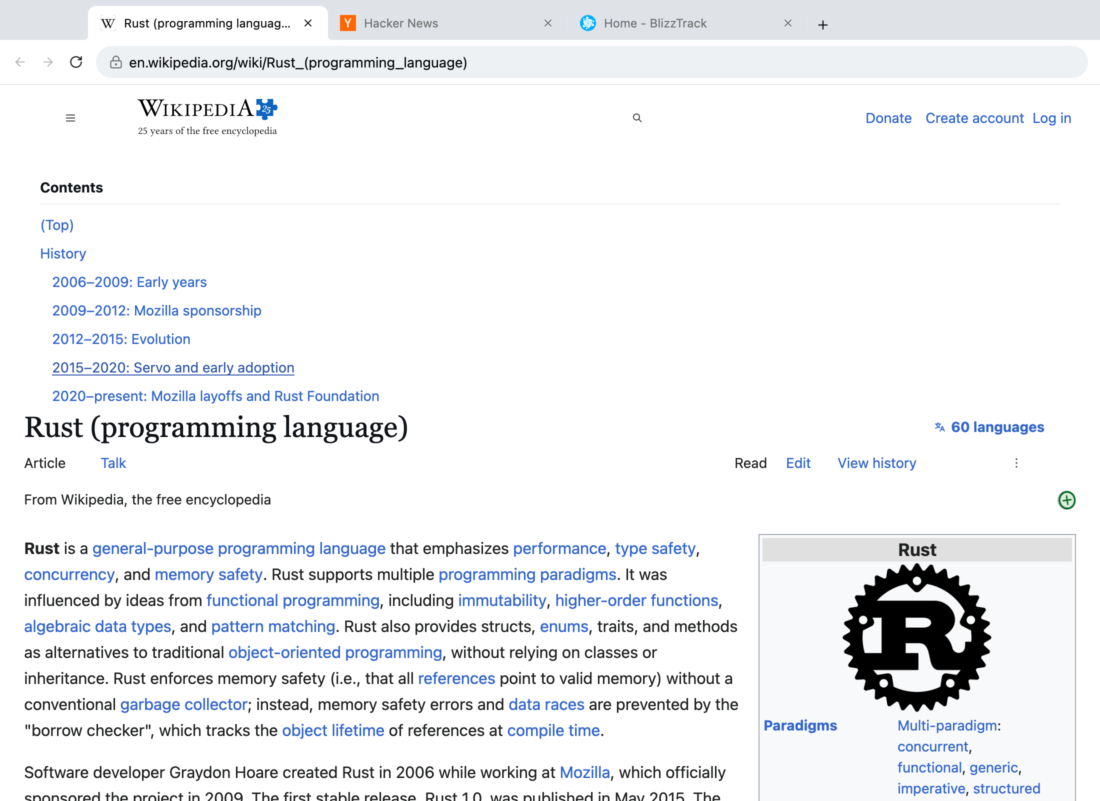
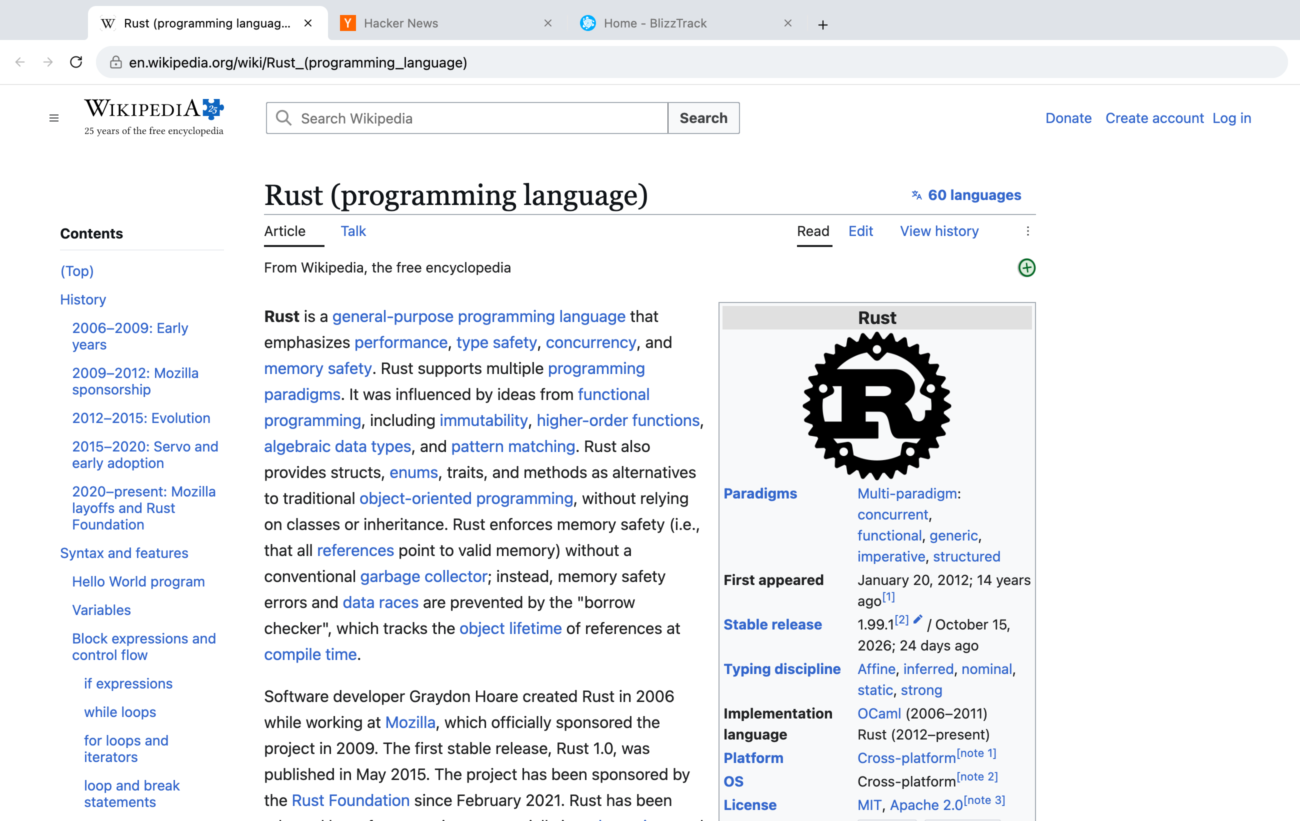
README rewrite, fresh screenshots, PLAN update
The README describes Feather as it is now: tabs, omnibox, forms, the
source view, hover patching, grid slicing; new screenshots (Wikipedia
with tabs, blizztrack in dark chrome, un-minified jQuery, the omnibox,
Hacker News dark).

diff --git a/README.md b/README.md
@@ -1,57 +1,45 @@
 # Feather 🪶
 
-**A web browser where the web page is not a web page.** Named Feather because it's so light it doesn't have a web engine.
+**A web browser with no web engine.** It's called Feather because it's so light it doesn't even have JavaScript.
 
-Normal browsers parse HTML into a DOM, run it through a rendering engine, and paint the result into a rectangle. This one parses HTML, runs its CSS through a cascade we wrote ourselves, and then turns the whole page into **native [GPUI](https://www.gpui.rs) UI elements**. GPUI is the GPU UI framework behind the Zed editor. Every paragraph you see is a GPUI element. Every `<div>` is a GPUI `div()`. The DOM is a slotmap the renderer reads once and then mostly ignores.
+Feather parses HTML, runs the CSS through a cascade it wrote itself, and turns the page into **native [GPUI](https://www.gpui.rs) elements**, the same UI framework the Zed editor is built with. There's no WebView, no Blink, no WebKit, no Servo in a trench coat. Every paragraph is a GPUI element. Every `<div>` is a GPUI `div()`. The text fields are code-editor text fields. It's Rust from the HTML tokenizer to the tab strip.
 
-It is cursed. It also kind of works.
+It is deeply cursed, and it renders Wikipedia.
 
-![Wikipedia, rendered as native GPUI elements](docs/wikipedia.png)
+![Wikipedia in Feather, with tabs](docs/wikipedia.png)
 
-![Hacker News](docs/hacker-news.png)
+## The cursed parts
 
-## Just how cursed is it
+- **Blocks are flexboxes.** CSS has "block flow". We don't. Every block is a GPUI `flex_col()`, and margin collapsing is arithmetic we do before Taffy ever sees it.
+- **Long pages are virtualized by tearing them apart.** Any container that can be sliced horizontally without anyone noticing is dissolved into rows of a GPUI `list()`, and each row re-creates the containers around it. Wikipedia's article is ~440 independently rendered rows, which is why scrolling a huge page costs about a millisecond a frame.
+- **CSS grids are sliced like bread.** A grid of 100 cards becomes 50 two-card grids stacked on top of each other, one list row each. They agree on column widths because they have the same template and the same width. GPUI only knows "N equal columns", so `grid-template-areas` layouts are placed by hand and rebuilt from flex rows. When one column holds the whole article (Wikipedia), it stays splittable, and the sidebar hangs off the article's first row as an absolutely positioned box.
+- **Tables are flex rows that agree on column widths.** Column widths are estimated from character counts before layout, then every cell in a column gets the same flex basis, so the rows independently land on the same grid.
+- **Inline layout is hand-rolled.** GPUI's text element does one font size per block. The web puts superscripts mid-sentence. So [our own element](crates/render/src/inline.rs) shapes text with GPUI's shaper, breaks lines itself, builds CSS line boxes from ascent, descent and line-height, and paints each run at its own baseline.
+- **Inline-blocks are laid out with last frame's homework.** GPUI's layout engine can't be re-entered from text measurement, so an inline-block containing real blocks is laid out as an absolutely positioned child, line breaking uses the size it had *last frame*, and if that was wrong it asks for another frame. It settles in one.
+- **Hover doesn't restyle the page.** When `:hover` changes, only the elements entering or leaving it are restyled, and if only paint changed (colors, backgrounds, radii, transforms) the new values are patched into the existing layout. About half a millisecond, no re-layout.
+- **Links load before you click them.** Rest the pointer on a link for 60ms and Feather fetches, parses, styles and lays out the whole page in the background. By the time you click, it's done.
+- **Form fields are code editors.** Each `<input>` is a box drawn from the page's CSS with a gpui-kit text editor sitting inside it. Buttons don't have click handlers: their content links to `feather-activate:<node id>`, a URL scheme that exists only so the inline layout's link hit-testing can press buttons.
+- **View source is a full code editor.** CSS, JavaScript and JSON responses, and `view-source:` pages, open in a highlighted editor with line numbers and folding. Minified code is un-minified first, by hand-written token-level pretty-printers for all four languages.
+- **Mask icons are SVGs smuggled through the asset system**, inline `<svg>` is serialized back into a string and "downloaded" from a `data:` URL, and the screenshot tool renders frames into an offscreen texture instead of taking screenshots.
 
-- **Blocks are flexboxes.** CSS has a whole layout mode called "block flow". We don't have it. Every block is a GPUI `flex_col()`, and we fake margin collapsing by doing the arithmetic ourselves before Taffy ever sees it. Mostly nobody can tell.
-- **Floats are a lie.** Real floats let text wrap *around* the floated box. Ours take the float and the next few paragraphs (until a heading) and put them in a two-column flex row. Wikipedia's infobox doesn't seem to mind.
-- **Tables are flex rows that agree on column widths.** We estimate every column's minimum and maximum content width *before layout*, from character counts. Then we hand every cell in a column the same flex basis and a grow factor proportional to its content, so all the rows independently land on the same column widths. It's table layout with no table layout.
-- **Inline layout is hand-rolled.** GPUI's text element does one font size per block of text. The web puts superscripts in the middle of sentences. So there's [our own GPUI element](crates/render/src/inline.rs) that measures every word with GPUI's text shaper, breaks lines itself, builds CSS line boxes from ascent, descent and line-height, and paints each run at its own baseline.
-- **Inline-blocks are laid out with last frame's homework.** A button in a sentence is an "atomic object" laid out by a nested copy of the inline engine. An inline-block with real blocks inside is a genuine GPUI subtree, but GPUI's layout engine can't be re-entered from inside text measurement, so it's laid out as an absolutely positioned child, the line breaking uses the size it had *last frame*, and if that was wrong we just ask for another frame. It settles in one. Then the subtree gets shoved into its slot in the line.
-- **Inline margins are space characters.** `<b style="margin-right: 5px">` gets an en space and a thin space appended. They're breakable, they survive whitespace collapsing, and they're about the right width.
-- **Long pages are virtualized by tearing them apart.** Any container that could be sliced horizontally without anyone noticing (no top/bottom borders, no fixed height…) gets dissolved into top-level rows of a GPUI `list()`, and each row re-creates the containers around it as "wrappers". Wikipedia's article becomes roughly 480 independently rendered rows.
-- **`position: absolute` is "absolute to your parent, probably".** CSS says the nearest positioned ancestor; Taffy only knows the parent. Usually the same box. Absolute boxes anchored to the page itself stay hidden, which mostly hides "skip to content" links and modals, which is honestly an improvement.
-- **No JavaScript.** Wikipedia gets its no-JS layout. We report `(scripting: none)` to media queries and render `<noscript>` content, like a browser from 2004 that happens to support `oklch()`.
-- **Mask icons are SVGs served through the app's asset system.** CSS `mask-image` icons are fetched, registered as fake app assets, and drawn with GPUI's `svg()` element tinted with the box's color, which is what a mask icon is anyway.
-- **Inline `<svg>` is serialized back into a string.** We parse the SVG into our tree, then write it back out as markup (with `currentColor` swapped for the actual color), percent-encode it into a `data:` URL, and "download" it through the image pipeline. Icons work.
-- **Links load before you click them.** Rest the pointer on a link for 60ms and Feather fetches, parses, styles and lays out the whole page in the background. By the time you click, it's done. This is the closest thing it has to speculative execution.
-- **Grids are sliced like bread.** A CSS grid with a hundred cards becomes fifty two-card grids stacked on top of each other, each one its own list row. They agree on column widths because they all have the same template and the same width. Nobody can tell.
-- **Text shaping is shared across the whole browser.** Shaped text is cached by content, not by element, so Wikipedia's sidebar shapes once and every other Wikipedia tab gets it free.
-- **Form fields are actual text editors.** Each `<input>` is a box drawn from the page's CSS with a gpui-kit text editor (the kind you'd find in a code editor's settings panel) sitting inside it. Buttons don't have click handlers: their content links to `feather-activate:<node id>`, a URL scheme that exists only to make the inline layout's link hit-testing press buttons.
-- **CSS grid templates are faked twice.** GPUI only knows "N equal columns", so `grid-template-areas` layouts are placed by hand and rebuilt as flex rows. When one column holds most of the page (Wikipedia's article), it stays splittable so the page still virtualizes, and the sidebar is hung off the article's first row as an absolutely positioned box.
-- **The screenshot tool doesn't take screenshots.** It asks GPUI to render the window's frame into a texture offscreen. That's how the pictures above were made, with no screen-recording permission.
+| | |
+|---|---|
+| ![blizztrack.com in Feather, dark chrome](docs/blizztrack.png) | ![Un-minified jQuery in the source view](docs/source.png) |
+| ![The omnibox completing from history](docs/omnibox.png) | ![Hacker News in dark mode](docs/hacker-news.png) |
 
-## What actually works
+## What works
 
-- HTML parsing (html5ever) into our own arena tree, quirks-mode detection
-- CSS: `<style>`, `<link>`, `@import`, `@media` (re-evaluated when you resize the window), `@supports`, `@layer`
-- Selectors via Servo's `selectors` crate (`:is`, `:where`, `:not`, `:has`, `nth-child`…), with an ancestor bloom filter
-- Cascade: origin → specificity → order, `!important`, `style=""`, presentational attributes (`bgcolor`, `<font>`, `align`…), custom properties and `var()`
-- Values: `calc()`, `min()`, `max()`, `clamp()`, every common unit, colors from hex to `oklch()` and `light-dark()`
-- Layout: flexbox, a grid approximation, widths/max-widths, `margin: auto`, borders, rounded corners, backgrounds, overflow scrolling
-- `::before`/`::after` content, real system fonts resolved from `font-family` lists
-- Images (`srcset`, background loading), CSS background images, mask icons
-- Links, back/forward, `#fragment` scrolling, hover URLs
-- `:hover`, `:active`, `:target` (restyling the page live), `cursor`
-- `position: relative/absolute/fixed`
-
-- Tabs in the title bar, Chrome-style, with favicons; an omnibox with history suggestions, inline completion and search
-- Dark mode (`prefers-color-scheme`, `color-scheme`, `light-dark()`), `file://` pages and directory listings
-- Forms: text fields, textareas, checkboxes, radios, selects, buttons, labels; GET and POST submission; `:checked`, `:focus`, `:disabled`…
-- CSS grid templates (`grid-template-areas`, mixed track sizes), `transform: translate()`, box-generating `::before`/`::after`
+- **The browser:** Chrome-style tabs in the title bar with favicons; an omnibox with history suggestions, inline completion and DuckDuckGo search; instant back/forward with scroll position; a new-tab page of your most visited sites; dark mode that follows macOS
+- **HTML:** html5ever parsing into our own arena tree, quirks mode, `<meta http-equiv=refresh>`, `file://` pages and directory listings, `view-source:`
+- **CSS:** `<style>`, `<link>`, `@import`, `@media` (re-evaluated as you resize), `@supports`, `@layer`; selectors via Servo's `selectors` crate (`:is`, `:where`, `:not`, `:has`, `nth-child`...); the full cascade with `!important`, `style=""`, presentational attributes, custom properties and `var()`; `calc()`, `min()`, `max()`, `clamp()`, colors up to `oklch()`
+- **Layout:** flexbox, CSS grid (templates, areas, auto-placement), tables, floats (approximately), `position: relative/absolute/fixed`, `transform: translate()`, `::before`/`::after` (text or boxes), backgrounds, borders, radii, images with `srcset`, mask icons, inline SVG
+- **Interaction:** links, `:hover`, `:active`, `:focus`, `:target`, `:checked`, cursors
+- **Forms:** text fields, textareas, checkboxes, radios, selects, buttons, labels; GET and POST submission
+- **Dark mode:** `prefers-color-scheme`, `color-scheme`, `light-dark()`
 
 ## What doesn't (yet)
 
-JavaScript. `position: sticky`. Text wrapping under floats. Text selection. Transitions. Web fonts. See [PLAN.md](PLAN.md) for the roadmap, including the part where we bolt [Boa](https://github.com/boa-dev/boa) (a JavaScript engine written in Rust, because of course) onto a DOM that was never meant to exist.
+JavaScript. The plan is [Boa](https://github.com/boa-dev/boa), a JavaScript engine written in Rust, because of course. Until then, sites that build themselves in JS (Google search, most web apps) stay blank or send their no-JS fallback. Also missing: CSS transitions and animations, `box-shadow`, web fonts, `position: sticky`, text wrapping around floats, text selection. See [PLAN.md](PLAN.md).
 
 ## Running it
 
@@ -59,43 +47,49 @@ JavaScript. `position: sticky`. Text wrapping under floats. Text selection. Tran
 cargo run --release -- https://en.wikipedia.org/wiki/Rust_(programming_language)
 ```
 
-Developed on macOS. GPUI also runs on Linux and Windows, but nobody has tried this there.
+Several URLs open as tabs. Developed on macOS; GPUI also runs on Linux and Windows, but nobody has tried Feather there.
 
 | Keys | Action |
 |---|---|
-| Cmd-L | Address bar |
+| Cmd-L | Omnibox |
 | Cmd-T / Cmd-W | New tab / close tab |
 | Cmd-1…9, Ctrl-Tab | Switch tabs |
-| Cmd-click | Open link in a background tab |
+| Cmd-click | Open a link in a background tab |
 | Cmd-[ / Cmd-] | Back / forward |
 | Cmd-R | Reload |
+| Cmd-U | View source |
 
 ### Dev tools
 
 ```sh
-# Layout rows and timings for a page
+# Layout rows and timings (several URLs share the cache).
+# TREE=1: big blocks' structure; CLASS=name: boxes of elements with that class; WIDTH=px: viewport
 cargo run --example dump -- https://news.ycombinator.com 20
 
 # Offscreen screenshots: render, save PNGs, quit
-cargo run --features screenshot -- https://example.com [more URLs as tabs] --screenshot out.png [--pages 3] [--row 40] [--size 1100x800] [--resize 600x800] [--dark|--light] [--type "omnibox text"] [--bench FRAMES]
+cargo run --features screenshot -- https://example.com --screenshot out.png \
+    [--pages 3] [--size 1100x800] [--dark|--light] [--mouse "X,Y;X,Y"] \
+    [--click X,Y] [--keys 'typed text\n'] [--type "omnibox text"] [--bench FRAMES]
 ```
+
+`--bench` scrolls a row per frame and prints frame times, `--mouse` times each hover, and `BROWSER_DEBUG=1` logs prerenders, hover patches and page loads.
 
 ## How it's put together
 
 ```
-net ──► html ──► page (the "DOM") ──► style (cascade) ──► render (boxes → GPUI) ──► shell (window)
+net ──► html ──► page (the "DOM") ──► style (cascade) ──► render (boxes → GPUI) ──► shell (Feather)
 ```
 
 | Crate | What it does |
 |---|---|
-| [`net`](crates/net) | Fetching (ureq), `data:` and `file:` URLs, the subresource cache |
+| [`net`](crates/net) | Fetching (ureq), `data:` and `file:` URLs, form POSTs, the subresource cache |
 | [`html`](crates/html) | html5ever `TreeSink` into the page tree |
 | [`page`](crates/page) | The arena tree everything else reads |
 | [`style`](crates/style) | Stylesheet parsing, selector matching, the cascade, computed styles, the [UA stylesheet](crates/style/src/ua.css) |
-| [`render`](crates/render) | Box tree, float and table approximations, the inline layout engine, GPUI rendering |
-| [`shell`](crates/shell) | Feather itself: tabs, omnibox, history, prerendering, image loading, live restyling |
+| [`render`](crates/render) | Box tree, row flattening, grid/table/float approximations, the inline layout engine, hover patching, GPUI rendering |
+| [`shell`](crates/shell) | Feather itself: tabs, omnibox, history, prerendering, forms, the source view and its pretty-printers |
 
-Built on [GPUI](https://www.gpui.rs) via [gpui-kit](https://gpui-kit.com), [html5ever](https://github.com/servo/html5ever), [cssparser and selectors](https://github.com/servo/stylo), and [Taffy](https://github.com/DioxusLabs/taffy) underneath GPUI.
+Built on [GPUI](https://www.gpui.rs) via [gpui-kit](https://gpui-kit.com), [html5ever](https://github.com/servo/html5ever), [cssparser and selectors](https://github.com/servo/stylo), [Taffy](https://github.com/DioxusLabs/taffy) underneath GPUI, and [syntect](https://github.com/trishume/syntect) for the source view.
 
 ## License
 

diff --git a/PLAN.md b/PLAN.md
@@ -96,7 +96,7 @@ Known Phase 1 limits: one font size per paragraph (inline `<small>`/`<sup>` use 
 - [x] `calc()` in media queries; CSS block semantics for auto-margin boxes
 - [x] Interactive states: `:hover` (blocks report via GPUI hover, inline elements via the inline engine's hit-testing; the chain includes flattened ancestors), `:active`, `:target`, `:focus*` matching (nothing focusable yet). Restyles run in the background only when the page has state rules. CSS `cursor`.
 - [ ] Faster state restyles: today a hover change re-runs style + layout for the whole page (~35ms on Wikipedia). Restyle only the affected subtree / rows.
-- [ ] `transition` (interpolate colors/opacity over frames)
+- [ ] `transition` / `@keyframes` animations: interpolate paint properties (colors, opacity, transforms) per frame on top of the hover patcher, no re-layout (a compositor-style fast path)
 - [ ] Dark mode (`prefers-color-scheme: dark` + a dark canvas)
 - [x] Re-style on window resize: rules keep their `@media` conditions; pages keep `Document` + `StyleData`; when a condition flips, restyle + re-layout in the background (debounced) and swap, keeping scroll position. (Viewport units only update on breakpoint changes for now.)
 - [ ] CSS nesting, `::before/::after` content (Wikipedia's "[edit]" brackets), fonts from `@font-face`
@@ -112,7 +112,8 @@ Known Phase 1 limits: one font size per paragraph (inline `<small>`/`<sup>` use 
 - [x] **Inline layout engine** ([inline.rs](crates/render/src/inline.rs)): our own GPUI element. Words measured with GPUI's shaper, greedy line breaking, CSS line boxes (per-run font sizes, line-height, `vertical-align`), inline-box decorations (`<code>` chips, `<mark>`), images in the line, real min/max-content answers, link hit-testing.
 - [ ] Inline layout, still missing: text wrapping *under* floats, `inline-flex`/`inline-grid` in the line, `text-indent`, justify, breaking overlong words, text selection
 - [ ] Tables (approximate with grid)
-- [ ] Forms: text inputs, buttons, GET form submission
+- [x] Forms: text inputs (gpui-kit editors in CSS-styled boxes), textareas, checkboxes, radios, selects, buttons, labels; GET and POST submission; `:checked`/`:focus`/`:disabled`...
+- [x] Source view: CSS/JS/JSON responses and `view-source:` in a highlighted code editor, minified code pretty-printed
 - [ ] Find in page, text selection & copy, zoom
 - [x] `position: relative` (offsets), `absolute` (relative to the parent box, painted on top via GPUI `deferred()`), `fixed` (viewport overlay layer). Absolute boxes with no positioned ancestor (besides html/body) stay hidden; `sticky` is static for now.
 - [x] Real `inline-block`: with inline content, atomic objects laid out as nested inline flows; with block content, real GPUI subtrees laid out as absolute children of the inline element, measured with last frame's sizes and moved into their line slot (one extra frame to settle). Shrink-to-fit, margins, borders, radius, `vertical-align: top/middle/bottom`
@@ -149,7 +150,8 @@ Known Phase 1 limits: one font size per paragraph (inline `<small>`/`<sup>` use 
 - [ ] Cookies and login flows
 - [x] Performance pass 1 (measured with `--bench`): engine/render crates optimized in dev builds; inline layouts + shaped text cached across frames in element state; shaped lines behind `Rc`; restyles reuse unchanged rows (keeping caches); hover restyles re-measure only visible rows; absolute children no longer block row splitting; in-memory subresource cache; back/forward page cache with scroll restore; loading bar. Wikipedia scroll: 39ms → ~1.3ms/frame.
 - [x] Performance pass 2: grids and flex columns split into rows (blizztrack's home page: 1 → 148 rows); links prerender on hover; text shaping cached by content across pages and tabs; images shared between consecutive pages show up instantly; hover restyles wait for scrolling to stop and only re-measure rows that changed
-- [ ] Performance: incremental restyle (only affected subtrees), web fonts off the critical path
+- [x] Hover patching: state changes restyle only the elements involved and patch paint-only changes into the layout (~0.5ms)
+- [ ] Performance: incremental restyle for layout-affecting changes, web fonts off the critical path
 
 ---
 
